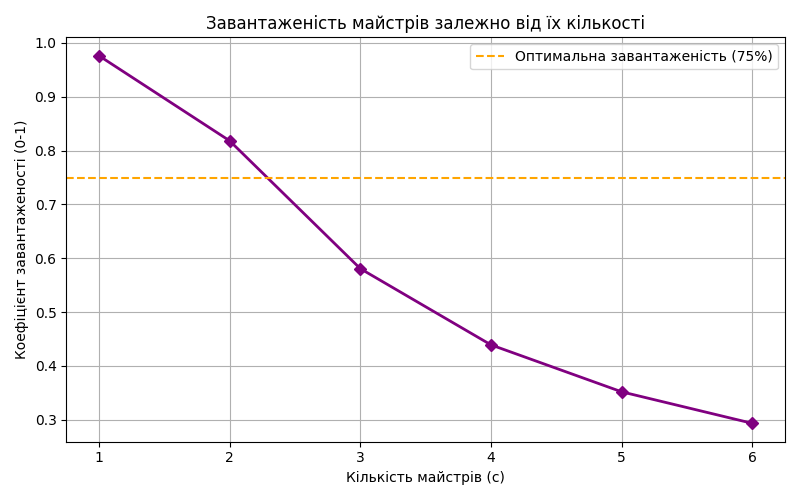
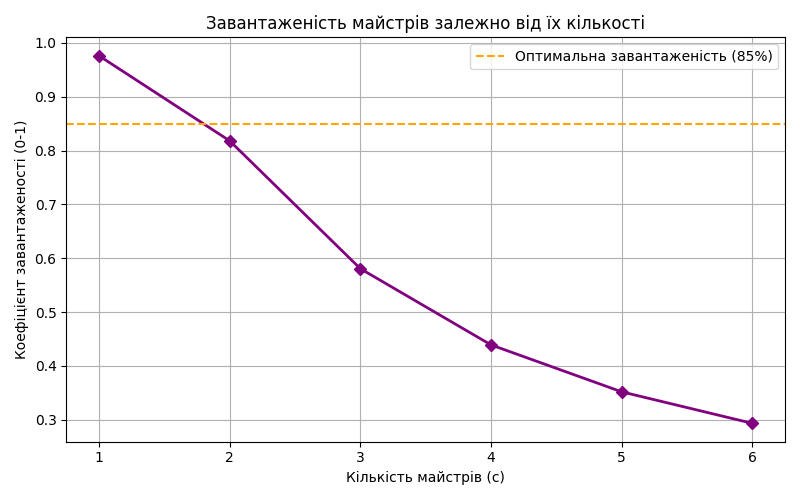
fixed graphics

diff --git a/vizualize.py b/vizualize.py
@@ -143,37 +143,51 @@ def plot_lost_hourly(lost_hourly_df):
     plt.show()
 
 def plot_financials(summary_df):
-    fig, ax1 = plt.subplots(figsize=(10, 6))
+    fig, (ax1, ax2) = plt.subplots(1, 2, figsize=(14, 6))
+
+    color_rev = 'tab:blue'
+    color_prof = 'tab:green'
     
-    color = 'tab:green'
     ax1.set_xlabel('Кількість майстрів (c)')
-    ax1.set_ylabel('Фінансові показники (грн)', color=color)
-    line1 = ax1.plot(summary_df['masters'], summary_df['profit'], color=color, marker='o', linewidth=2, label='Прибуток')
-    line_rev = ax1.plot(summary_df['masters'], summary_df['revenue'], color='tab:blue', marker='s', label='Виручка (D)')
-    ax1.tick_params(axis='y', labelcolor=color)
+    ax1.set_ylabel('Сума (грн)')
     
-    ax2 = ax1.twinx()
-    color = 'tab:red'
-    ax2.set_ylabel('Витрати та збитки (грн)', color=color)
-    line2 = ax2.plot(summary_df['masters'], summary_df['wages'], color=color, marker='x', linestyle='--', label='Витрати на зарплату')
-    line_lost = ax2.plot(summary_df['masters'], summary_df['lostProfit'], color='orange', marker='^', linestyle='-.', label='Недоотриманий прибуток (U)')
-    ax2.tick_params(axis='y', labelcolor=color)
+    line_rev = ax1.plot(summary_df['masters'], summary_df['revenue'], color=color_rev, marker='s', linewidth=2, label='Виручка (D)')
+    line_prof = ax1.plot(summary_df['masters'], summary_df['profit'], color=color_prof, marker='o', linewidth=2, label='Прибуток')
     
-    lines = line1 + line_rev + line2 + line_lost
-    labels = [l.get_label() for l in lines]
-    ax1.legend(lines, labels, loc='upper left')
+    lines1 = line_rev + line_prof
+    labels1 = [l.get_label() for l in lines1]
+    ax1.legend(lines1, labels1, loc='upper left')
     
-    plt.title('Залежність фінансових показників від розміру штату')
-    plt.xticks(summary_df['masters'])
-    plt.grid(True, alpha=0.3)
+    ax1.set_title('Доходи та Прибуток')
+    ax1.set_xticks(summary_df['masters'])
+    ax1.grid(True, alpha=0.3)
+
+    color_wages = 'tab:red'
+    color_lost = 'orange'
+    
+    ax2.set_xlabel('Кількість майстрів (c)')
+    ax2.set_ylabel('Сума (грн)')
+    
+    line_wages = ax2.plot(summary_df['masters'], summary_df['wages'], color=color_wages, marker='x', linestyle='--', linewidth=2, label='Витрати на зарплату')
+    line_lost = ax2.plot(summary_df['masters'], summary_df['lostProfit'], color=color_lost, marker='^', linestyle='-.', linewidth=2, label='Недоотриманий прибуток (U)')
+    
+    lines2 = line_wages + line_lost
+    labels2 = [l.get_label() for l in lines2]
+    ax2.legend(lines2, labels2, loc='upper left')
+    
+    ax2.set_title('Витрати та Збитки')
+    ax2.set_xticks(summary_df['masters'])
+    ax2.grid(True, alpha=0.3)
+
+    plt.suptitle('Залежність фінансових показників від розміру штату', fontsize=14, y=1.03)
     plt.tight_layout()
-    plt.savefig('financials_vs_c.png')
+    plt.savefig('financials_side_by_side_left_axis.png', bbox_inches='tight')
     plt.show()
 
 def plot_utilization(summary_df):
     plt.figure(figsize=(8, 5))
     plt.plot(summary_df['masters'], summary_df['utilization'], marker='D', color='purple', linewidth=2)
-    plt.axhline(y=0.75, color='orange', linestyle='--', label='Оптимальна завантаженість (75%)')
+    plt.axhline(y=0.85, color='orange', linestyle='--', label='Оптимальна завантаженість (85%)')
     
     plt.title('Завантаженість майстрів залежно від їх кількості')
     plt.xlabel('Кількість майстрів (c)')
